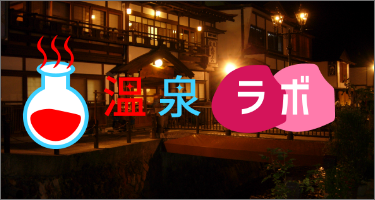
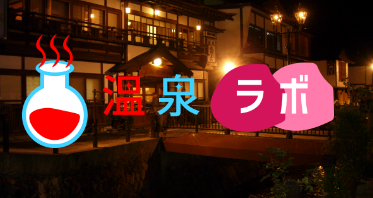
modify top page PC layout

diff --git a/public/css/style.css b/public/css/style.css
@@ -105,9 +105,16 @@ body#front,
 body#caution{
     background-color:#f5f5f5;
 }
-body#front img{
+body#front header img{
     width: 100%;
     height: auto;
+}
+@media screen and (min-width:480px) {
+  body#front header img{
+    width: auto;
+    padding: 0px;
+    max-height: 145px;
+  }
 }
 body#front div#menuarea{
     text-align: center;
